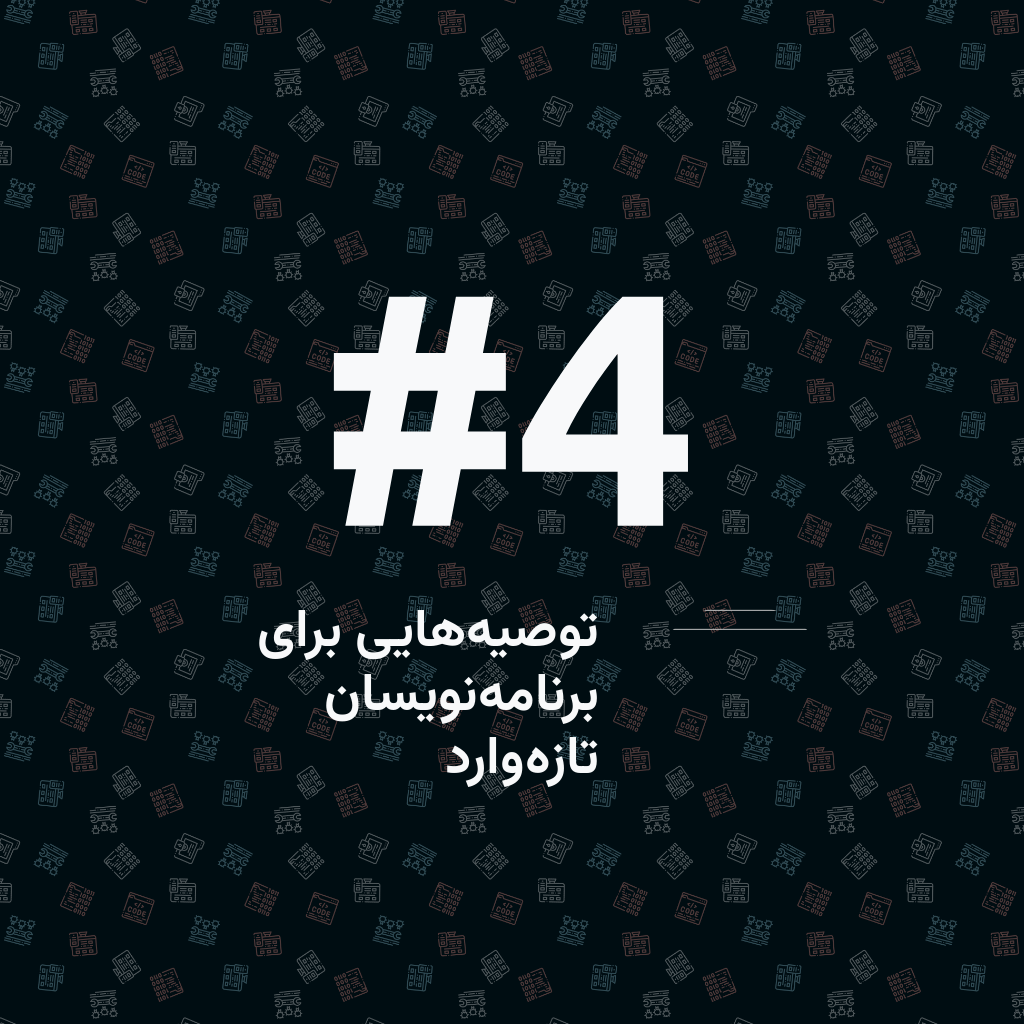
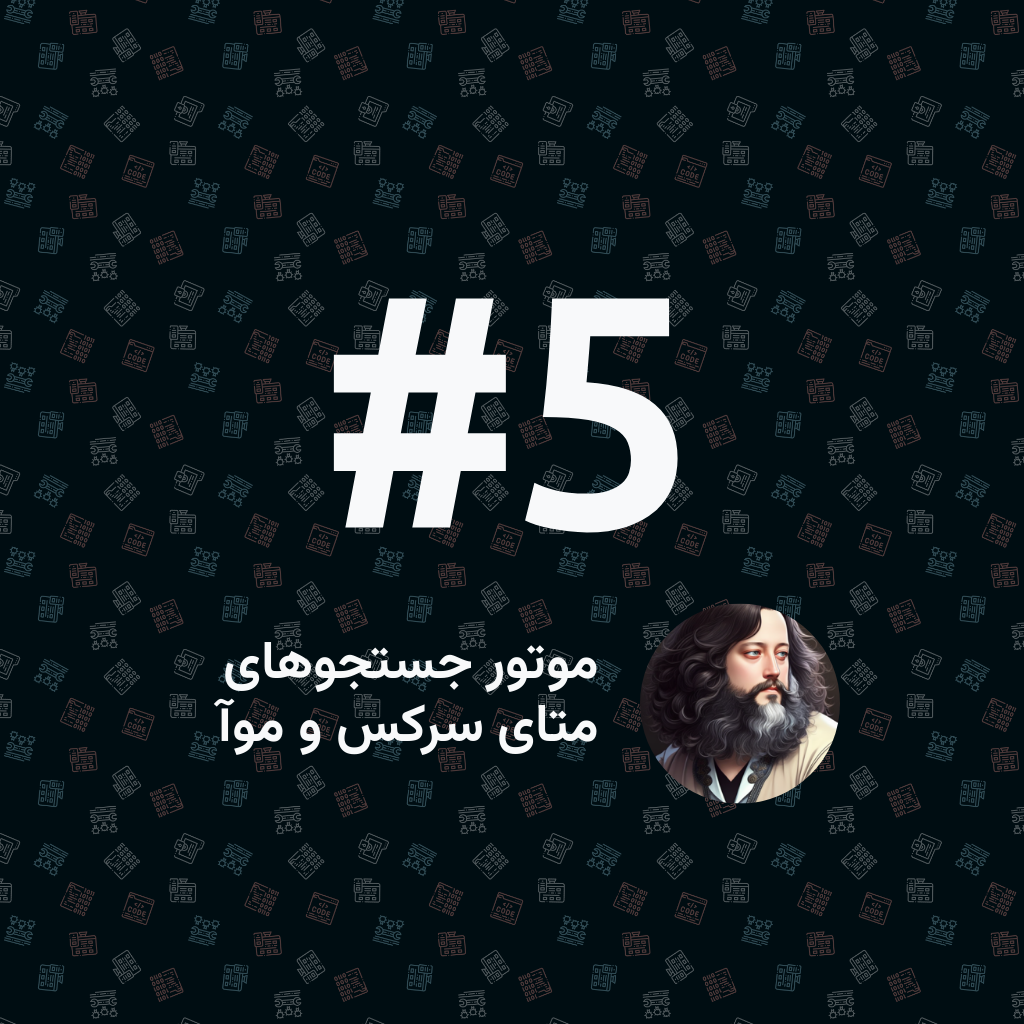
deploy: 5ba5479c8fbc02c3c56c0fa41f34c07eb46fccc9

diff --git a/index.html b/index.html
@@ -4,9 +4,9 @@
 <head>
     <meta charset="UTF-8">
     <meta name="viewport" content="width=device-width, initial-scale=1.0">
-    <meta property="og:title" content="#4 - دورهمی کرمهای کامپیوتر" />
+    <meta property="og:title" content="#5 - دورهمی کرمهای کامپیوتر" />
     <meta name="og:description"
-        content="دورهمی های کرمهای کامپیوتر - جمعه هر هفته ساعت هفت این هفته با ارائه «بهنام سیمجو» درباره توصیههایی برای برنامهنویسان تازهوارد">
+        content="دورهمی های کرمهای کامپیوتر - جمعه هر هفته ساعت هفت این هفته با ارائه «جعفر فرقانلوژ» درباره موتور جستجوهای متای سرکس و موآ">
     <meta property="og:url" content="https://meet.pcworms.ir" />
     <meta property="og:image" content="https://meet.pcworms.ir/preview.png" />
     <title>دورهمی های کرم های کامپیوتر</title>
@@ -20,7 +20,7 @@
         rel="stylesheet">
     <script>
         // Set the date we're counting down to
-        var countDownDate = new Date("Nov 3, 2023 19:00:00").getTime();
+        var countDownDate = new Date("Nov 10, 2023 19:00:00").getTime();
         var finishDate = countDownDate + (1.5 * 3600 * 1000);
 
         // Update the count down every 1 second
@@ -85,7 +85,7 @@
     <div class="container-fluid">
         <div class="row mt-2 text-center">
             <div class="col d-flex  align-items-center justify-content-center">
-                <span class="big-text d-inline-block">#4</span>
+                <span class="big-text d-inline-block">#5</span>
                 <img class="logo" src="./assets/meeting-logo.png" alt="">
             </div>
         </div>
@@ -98,12 +98,12 @@
         <div class="row justify-content-center">
             <div class="col-12 col-sm-10 col-md-8 p-2 subject-bg"">
                 <div class=" row align-items-center">
-                <div class="col-auto float-start text-center"><img src="assert&#x2F;bsimjoo-profile.png" class="profile"></div>
+                <div class="col-auto float-start text-center"><img src="assets&#x2F;avatars&#x2F;mehr32.png" class="profile"></div>
                 <div class="col">
                     <small class="speaker d-block">
-                        این هفته با «بهنام سیمجو» درباره:
+                        این هفته با «جعفر فرقانلوژ» درباره:
                     </small>
-                    <h2 class="subject">توصیههایی برای برنامهنویسان تازهوارد</h2>
+                    <h2 class="subject">موتور جستجوهای متای سرکس و موآ</h2>
                     <div class="text-center">
                         <small class="time" id="counter"></small>
                     </div>

diff --git a/preview.html b/preview.html
@@ -21,16 +21,16 @@
         <div class="row mt-2 text-center">
             <div class="col d-flex  align-items-center justify-content-center">
                 <img class="logo" src="./assert/meeting-logo.png" alt="">
-                <span class="big-text d-inline-block">#4</span>
+                <span class="big-text d-inline-block">#5</span>
             </div>
         </div>
         <div class="row justify-content-center">
             <div class="col-12 col-sm-10 col-md-8 p-2"">
                 <div class=" row align-items-center">
                 <div class="col">
-                    <h1 class="subject" dir="rtl">توصیههایی برای برنامهنویسان تازهوارد</h1>
+                    <h1 class="subject" dir="rtl">موتور جستجوهای متای سرکس و موآ</h1>
                 </div>
-                <div class="col-auto float-start text-center"><img src="assert&#x2F;bsimjoo-profile.png" class="profile"></div>
+                <div class="col-auto float-start text-center"><img src="assets&#x2F;avatars&#x2F;mehr32.png" class="profile"></div>
             </div>
         </div>
     </div>
